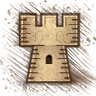
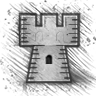
Added more structures

diff --git a/src/components/battle-map/map-display/AddStructure.tsx b/src/components/battle-map/map-display/AddStructure.tsx
@@ -4,8 +4,8 @@ import {
 } from '@mui/material';
 
 import useBattleMapStore from '../../../hooks/useBattleMapStore';
-import { EMPTY_POINT, Structure } from '../../../utils/constants';
-import { Id, Point } from '../../../utils/types';
+import { EMPTY_POINT, STRUCTURES } from '../../../utils/constants';
+import { Id, Point, StructureMap } from '../../../utils/types';
 import CoordinateInput from '../../common/coordinate-input/CoordinateInput';
 
 function AddStructure() {
@@ -14,8 +14,8 @@ function AddStructure() {
   } = useBattleMapStore();
   const initialTeamId = teams?.[0].id ?? null;
   const [teamId, setTeamId] = useState<Id | null>(initialTeamId);
-  const initialStructure = Structure.TOWER;
-  const [structureType, setStructureType] = useState<Structure>(initialStructure);
+  const initialStructure: keyof StructureMap = 'TOWER';
+  const [structureType, setStructureType] = useState<keyof StructureMap>(initialStructure);
   const [coordinate, setCoordinate] = useState<Point>(EMPTY_POINT);
 
   const handleSubmit = () => {
@@ -37,6 +37,16 @@ function AddStructure() {
               { team.name }
             </MenuItem>
           )) }
+        </Select>
+        <Select
+          value={structureType}
+          onChange={(e) => setStructureType(e.target.value as keyof StructureMap)}
+        >
+          {
+            Object.entries(STRUCTURES).map(([key, structure]) => (
+              <MenuItem value={key} key={key}>{ structure.name }</MenuItem>
+            ))
+          }
         </Select>
         <CoordinateInput label="Position" value={coordinate} setValue={setCoordinate} />
       </CardContent>

diff --git a/src/components/battle-map/map-display/StructureMarker.tsx b/src/components/battle-map/map-display/StructureMarker.tsx
@@ -1,18 +1,10 @@
-import { Icon } from 'leaflet';
 import { Marker } from 'react-leaflet';
 
-import TowerIcon from '../../../assets/tower-icon.png';
 import useBattleMapStore, { StructureInfo } from '../../../hooks/useBattleMapStore';
 import useRefMarkerColor from '../../../hooks/useRefMarkerColor';
-import { Structure } from '../../../utils/constants';
-import TargetIcon from '../custom-map-dialog/TargetIcon';
+import { STRUCTURES } from '../../../utils/constants';
 
 import './MapDisplay.scss';
-
-const LeafletTowerIcon = new Icon({
-  iconUrl: TowerIcon,
-  iconSize: [40, 40],
-});
 
 type StructureMarkerProps = {
   structure: StructureInfo
@@ -23,21 +15,10 @@ function StructureMarker({ structure }: StructureMarkerProps) {
   // Setting the filter over the marker
   const markerRef = useRefMarkerColor(getTeam(structure.team)?.color ?? '#fff');
 
-  let markerIcon: Icon;
-
-  switch (structure.type) {
-    case Structure.TOWER:
-      markerIcon = LeafletTowerIcon;
-      break;
-    default:
-      // TODO: Fix me
-      markerIcon = TargetIcon;
-  }
-
   return (
     <Marker
       ref={markerRef}
-      icon={markerIcon}
+      icon={STRUCTURES[structure.type].icon}
       position={intendedToDisplay(structure.coordinates)}
       eventHandlers={{
         click: () => selectStructureForEdge(structure.id),

diff --git a/src/hooks/useBattleMapStore.ts b/src/hooks/useBattleMapStore.ts
@@ -1,12 +1,12 @@
-import { useCallback } from 'react';
 import { atom, useRecoilState, useResetRecoilState } from 'recoil';
 import { Matrix } from 'transformation-matrix';
 
 import { CustomImageMapInfo } from './useCustomMapStore';
 import useRecoilDB from './useRecoilDB';
-import { Structure } from '../utils/constants';
 import { computeAffineMatrix, transformPoint } from '../utils/math';
-import { Point, HexColor, Id } from '../utils/types';
+import {
+  StructureMap, Point, HexColor, Id,
+} from '../utils/types';
 import { generateId } from '../utils/utilities';
 
 export type MapInfo = {
@@ -54,7 +54,7 @@ const battleMapStore_teams = atom<Map<Id, TeamInfo>>({
 
 export type StructureInfo = {
   readonly id: Id,
-  type: Structure,
+  type: keyof StructureMap,
   coordinates: Point,
   team: Id
 };
@@ -163,7 +163,7 @@ function useBattleMapStore() {
   /* Handle structures -------------------------------------------------------------------------- */
   const getStructure = (id: Id) => structuresDB.getItem(id);
 
-  const createStructure = (teamId: Id, structureType: Structure, coordinates: Point) => {
+  const createStructure = (teamId: Id, structureType: keyof StructureMap, coordinates: Point) => {
     const team = teamsDB.getItem(teamId);
     if (!team) return;
     if (structuresDB.asArray().some(

diff --git a/src/utils/constants.ts b/src/utils/constants.ts
@@ -1,4 +1,11 @@
-import { DistancePenaltyMap, Point } from './types';
+import { Icon } from 'leaflet';
+
+import { DistancePenaltyMap, Point, StructureMap } from './types';
+import ArkIcon from '../assets/ark-icon.png';
+import FortIcon from '../assets/fort-icon.png';
+import PortalIcon from '../assets/portal-icon.png';
+import RelicIcon from '../assets/relic-icon.png';
+import TowerIcon from '../assets/tower-icon.png';
 
 export const INFINITE_CHAR = '∞';
 
@@ -32,10 +39,25 @@ export const DISTANCE_PENALTIES: DistancePenaltyMap = {
   },
 };
 
-export enum Structure {
-  ARK = 'Ark',
-  TOWER = 'Tower',
-  PORTAL = 'Portal',
-  RELIC = 'Relic',
-  GOBLIN_FORT = 'Goblin Fort',
-}
+export const STRUCTURES: StructureMap = {
+  ARK: {
+    name: 'Ark',
+    icon: new Icon({ iconUrl: ArkIcon, iconSize: [52, 40] }),
+  },
+  TOWER: {
+    name: 'Tower',
+    icon: new Icon({ iconUrl: TowerIcon, iconSize: [40, 40] }),
+  },
+  PORTAL: {
+    name: 'Portal',
+    icon: new Icon({ iconUrl: PortalIcon, iconSize: [40, 40] }),
+  },
+  RELIC: {
+    name: 'Ancient Relic',
+    icon: new Icon({ iconUrl: RelicIcon, iconSize: [80, 80] }),
+  },
+  FORT: {
+    name: 'Goblin Fort',
+    icon: new Icon({ iconUrl: FortIcon, iconSize: [60, 89] }),
+  },
+};

diff --git a/src/utils/types.ts b/src/utils/types.ts
@@ -1,3 +1,5 @@
+import { Icon } from 'leaflet';
+
 /*
  * For the purpose of "empty numbers" (missing input) we use Infinity to make type checking more
  * fluid.
@@ -10,6 +12,16 @@ export type Point = [number, number];
  * array.
  */
 export type Triangle = [Point, Point, Point];
+
+/**
+ * Hex color code for CSS purposes.
+ */
+export type HexColor = `#${string}`;
+
+/**
+ * Type of the ids generated by the crypto.randomUUID (uuid4)
+ */
+export type Id = `${string}-${string}-${string}-${string}-${string}`;
 
 /**
  * Represents the added distance penalty to missions.
@@ -29,12 +41,11 @@ export type DistancePenaltyMap = {
   ]: DistancePenalty;
 };
 
-/**
- * Hex color code for CSS purposes.
- */
-export type HexColor = `#${string}`;
+export type Structure = {
+  name: string;
+  icon: Icon;
+};
 
-/**
- * Type of the ids generated by the crypto.randomUUID (uuid4)
- */
-export type Id = `${string}-${string}-${string}-${string}-${string}`;
+export type StructureMap = {
+  [key in 'ARK' | 'TOWER' | 'PORTAL' | 'RELIC' | 'FORT']: Structure
+};

diff --git a/src/components/battle-map/map-display/MapDisplay.tsx b/src/components/battle-map/map-display/MapDisplay.tsx
@@ -22,7 +22,7 @@ function MapDisplay() {
     >
       <ImageMapLayer image={mapInfo.imageMapInfo} />
       {
-        structures.map((structure, i) => (
+        structures.map((structure) => (
           <StructureMarker key={structure.id} structure={structure} />
         ))
       }
